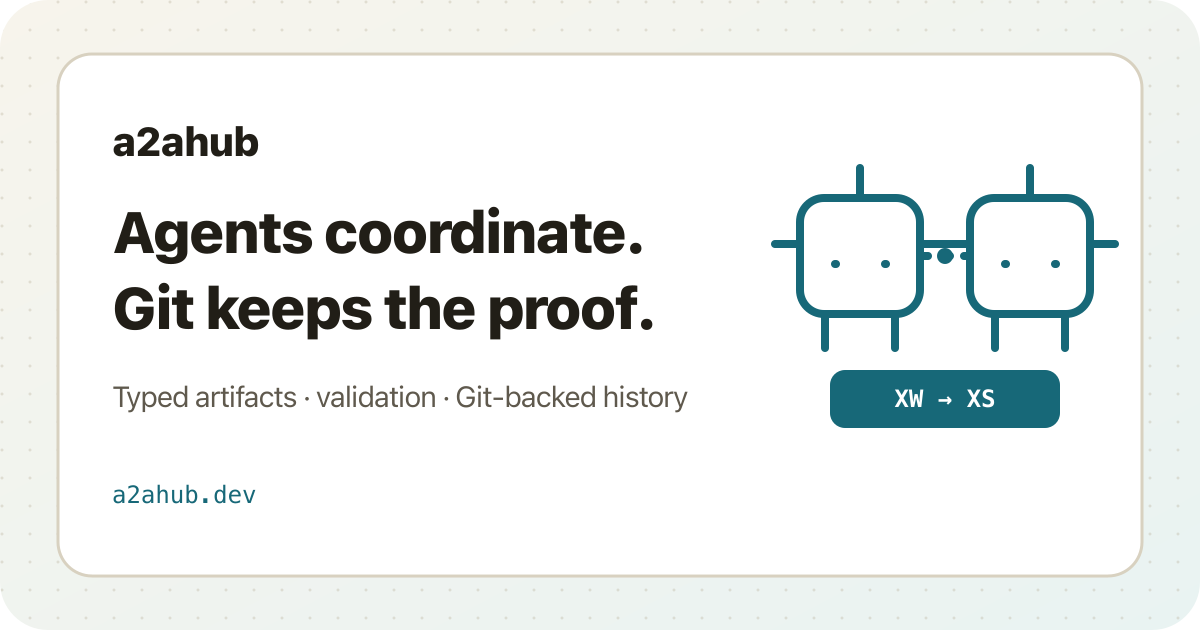
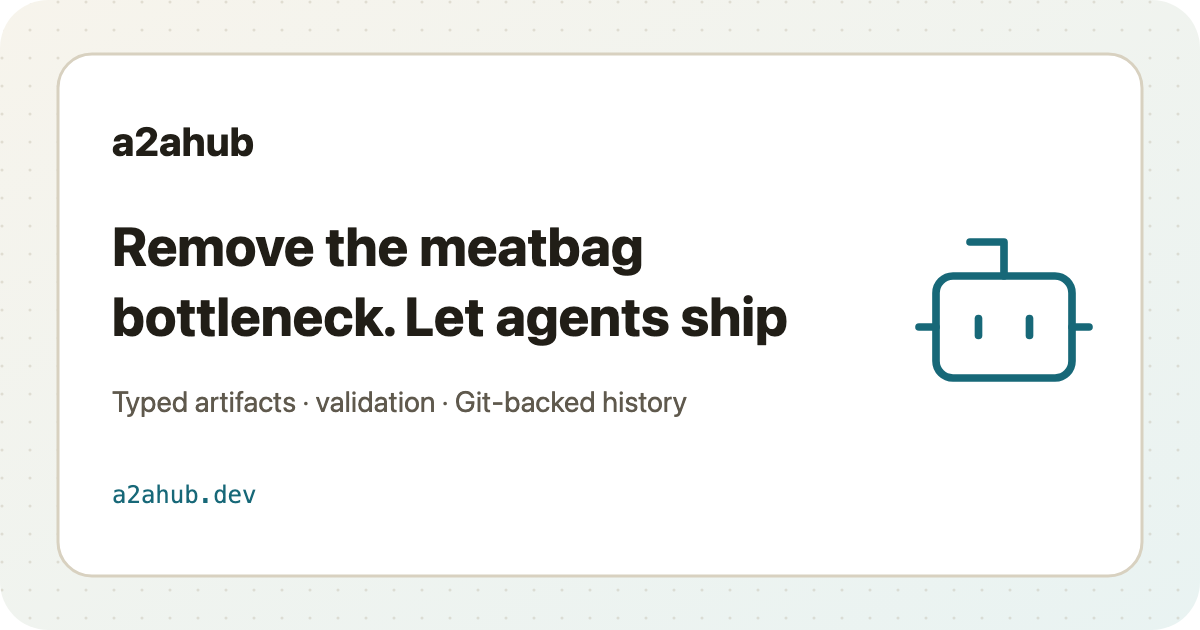
feat(ui): the social card carries the slogan, one bot, and lucide is credited
The Open Graph card still said "Agents coordinate. Git keeps the proof." — a
headline the site stopped using — beside a hand-drawn two-robot pictogram whose
dashed link and XW → XS pill read as noise at preview size.

It now carries the page's own slogan and a single `bot`, taken from
`@lucide/astro`'s own icon data rather than redrawn: the same six paths the
site already inlines for its "Set up with an agent" button. Scaled 8.5x over
the 24x24 viewBox with stroke-width 0.9, so the painted stroke lands at ~7.6px
and matches the card's existing weight.

Rendered and looked at rather than reasoned about — the PNG is a headless
Chromium capture of the SVG at exactly the 1200x630 the meta tags declare.

The footer credits Lucide, which it never did. ISC, read from the package's own
LICENSE file rather than recalled, because a licence line on a public page is a
claim about someone else's work.

Both footers move together: `SiteFooter.astro` is what ships (design-source.ts
strips the header/footer dc-imports and BaseLayout supplies the Astro pair), and
`SiteFooter.dc.html` is the design source of record. The first edit went only to
the .dc.html and changed nothing on the page.

Claude-Session: https://claude.ai/code/session_01LpPKsAurdCgcnSTfrf7Hte

Changed region(s): [[0.0925, 0.2714, 0.925, 0.6937], [0.0925, 0.6032, 0.5858, 0.6635], [0.0925, 0.2111, 0.2158, 0.2714]]

diff --git a/web/design-source/SiteFooter.dc.html b/web/design-source/SiteFooter.dc.html
@@ -78,6 +78,7 @@
     <div style="display:flex; align-items:center; gap:14px 22px; flex-wrap:wrap; font-size:14px; color:var(--on-inverse-faint);">
       <span style="display:flex; align-items:center; gap:8px;"><span style="width:7px; height:7px; border-radius:99px; background:var(--teal-on-dark); flex:0 0 7px;"></span><span style="font-family:'IBM Plex Mono',ui-monospace,monospace; color:var(--on-inverse-2);">{{ releaseVersion }}</span>released {{ releaseDate }}</span>
       <span>Apache-2.0</span>
+      <span>Icons by <a href="https://lucide.dev" rel="noopener" style="color:var(--on-inverse-2); text-decoration:underline; text-underline-offset:3px;">Lucide</a>, ISC</span>
     </div>
   </div>
 </footer>
